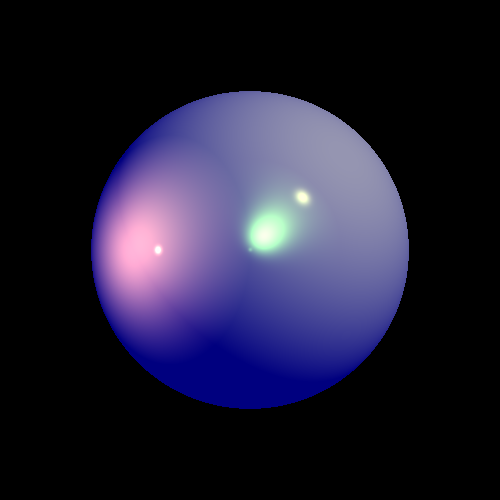
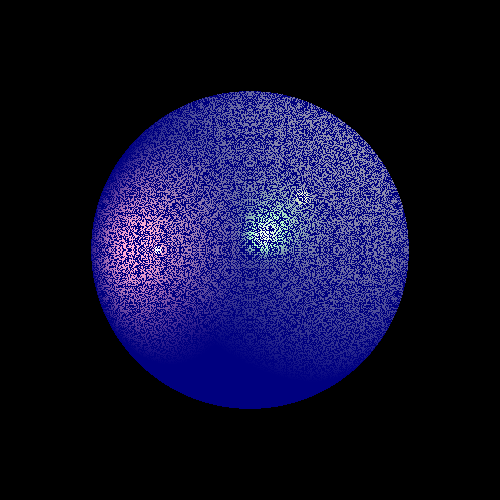
stage 7: Intersectable renewed

Changed region(s): [[0.18, 0.18, 0.84, 0.75]]

diff --git a/src/renderer/RayTracerBasic.java b/src/renderer/RayTracerBasic.java
@@ -19,8 +19,30 @@ import static primitives.Util.alignZero;
  */
 public class RayTracerBasic extends RayTracerBase {
 
-    /**
+    private static final double DELTA = 0.1;
 
+
+    private boolean unshaded(GeoPoint gp, Vector l) {
+        Vector lightDirection = l.scale(-1); // from point to light source
+        Ray lightRay = new Ray(gp.point, lightDirection);
+        List<GeoPoint> intersections = scene.getGeometries().findGeoIntersections(lightRay);
+        return intersections == null ? true : false;
+    }
+
+//    private boolean unshaded(GeoPoint gp, LightSource light, Vector l, Vector n, double nl)
+//    {
+//        Vector lightDirection = l.scale(-1); // from point to light source
+//        Vector epsVector = n.scale(nl < 0 ? DELTA : -DELTA);
+//        Point point = gp.point.add(epsVector);
+//        Ray lightRay = new Ray(point, lightDirection);
+//        List<GeoPoint> intersections = scene.getGeometries().findGeoIntersections(lightRay);
+//        if (intersections == null) return true;
+//
+//    }
+
+
+
+    /**
      Constructs a new instance of the RayTracerBasic class with the specified scene.
      @param scene The scene to be rendered.
      */
@@ -42,162 +64,6 @@ public class RayTracerBasic extends RayTracerBase {
         GeoPoint closestPoint = ray.findClosestGeoPoint(intersections);
         return calcColor(closestPoint,ray);
     }
-
-
-
-//    private Color calcColor(GeoPoint geoPoint){
-//        //
-//        return scene.ambientLight.getIntensity()
-//                .add(geoPoint.geometry.getEmission());
-//    }
-//    private Color calcColor(GeoPoint geoPoint) {
-//        Color ambientLightIntensity = scene.ambientLight.getIntensity();
-//        Color emissionColor = geoPoint.geometry.getEmission();
-//        Color lightIntensity = Color.BLACK; // Initialize with no light intensity
-//
-//        // Iterate over the light sources in the scene and calculate the total light intensity
-//        for (LightSource lightSource : scene.lights) {
-//            lightIntensity = lightIntensity.add(lightSource.getIntensity(geoPoint.point));
-//        }
-//
-//        // Combine the ambient light intensity, emission color, and total light intensity
-//        return ambientLightIntensity.add(emissionColor).add(lightIntensity);
-//    }
-
-//    private Color calcColor(GeoPoint geoPoint) {
-//        Color ambientLightIntensity = scene.ambientLight.getIntensity();
-//        Color emissionColor = geoPoint.geometry.getEmission();
-//        Color diffuseColor = Color.BLACK; // Initialize with no diffuse color
-//        Color specularColor = Color.BLACK; // Initialize with no specular color
-//
-//        // Iterate over the light sources in the scene and calculate the diffuse and specular components
-//        for (LightSource lightSource : scene.lights) {
-//            // Calculate the diffuse component
-//            Vector l = lightSource.getL(geoPoint.point).normalize(); // Light direction vector
-//            Vector n = geoPoint.geometry.getNormal(geoPoint.point).normalize(); // Surface normal vector
-//            double ln = Math.max(0, l.dotProduct(n)); // Dot product of light direction and surface normal
-//            Color lightDiffuseColor = lightSource.getIntensity(geoPoint.point).scale(ln);
-//            diffuseColor = diffuseColor.add(lightDiffuseColor);
-//
-//            // Calculate the specular component
-//            double shininess = geoPoint.geometry.getMaterial().nShininess; // Shininess factor
-//            Vector r = l.subtract(n.scale(2 * ln)).normalize(); // Reflection vector
-//            double specularFactor = Math.pow(Math.max(0, r.dotProduct(l)), shininess); // Specular factor
-//            Color lightSpecularColor = lightSource.getIntensity(geoPoint.point).scale(specularFactor).scale(geoPoint.geometry.getMaterial().Ks);
-//            specularColor = specularColor.add(lightSpecularColor);
-//        }
-//
-//        // Combine the ambient light intensity, emission color, diffuse color, and specular color
-//        return ambientLightIntensity.scale(geoPoint.geometry.getMaterial().kd)
-//                .add(emissionColor)
-//                .add(diffuseColor)
-//                .add(specularColor);
-//    }
-
-
-//    private Color calcColor(GeoPoint geoPoint) {
-//        Color ambientLightIntensity = scene.ambientLight.getIntensity();
-//        Color emissionColor = geoPoint.geometry.getEmission();
-//
-//        Color diffuseColor = calculateDiffuseColor(geoPoint);
-//        Color specularColor = calculateSpecularColor(geoPoint);
-//
-//        return ambientLightIntensity.scale(geoPoint.geometry.getMaterial().kd)
-//                .add(emissionColor)
-//                .add(diffuseColor)
-//                .add(specularColor);
-//    }
-//
-//    private Color calculateDiffuseColor(GeoPoint geoPoint) {
-//        Color diffuseColor = Color.BLACK;
-//
-//        for (LightSource lightSource : scene.lights) {
-//            Vector l = lightSource.getL(geoPoint.point).normalize();
-//            Vector n = geoPoint.geometry.getNormal(geoPoint.point).normalize();
-//            double ln = Math.max(0, l.dotProduct(n));
-//
-//            Color lightDiffuseColor = lightSource.getIntensity(geoPoint.point).scale(ln);
-//            diffuseColor = diffuseColor.add(lightDiffuseColor);
-//        }
-//
-//        return diffuseColor;
-//    }
-//
-//    private Color calculateSpecularColor(GeoPoint geoPoint) {
-//        Color specularColor = Color.BLACK;
-//
-//        for (LightSource lightSource : scene.lights) {
-//            Vector l = lightSource.getL(geoPoint.point).normalize();
-//            Vector n = geoPoint.geometry.getNormal(geoPoint.point).normalize();
-//            double ln = Math.max(0, l.dotProduct(n));
-//            double shininess = geoPoint.geometry.getMaterial().nShininess;
-//            Vector r = l.subtract(n.scale(2 * ln)).normalize();
-//            double specularFactor = Math.pow(Math.max(0, r.dotProduct(-geoPoint.point.getV())), shininess);
-//
-//            Color lightSpecularColor = lightSource.getIntensity(geoPoint.point)
-//                    .scale(specularFactor)
-//                    .scale(geoPoint.geometry.getMaterial().Ks);
-//
-//            specularColor = specularColor.add(lightSpecularColor);
-//        }
-//
-//        return specularColor;
-//    }
-
-
-
-//    private Color calcColor(GeoPoint geoPoint,Ray ray) {
-//        Color ambientLightIntensity = scene.ambientLight.getIntensity();
-//        Color emissionColor = geoPoint.geometry.getEmission();
-//
-//        Color diffuseColor = calculateDiffuseColor(geoPoint);
-//        Color specularColor = calculateSpecularColor(geoPoint,ray);
-//
-//        return ambientLightIntensity.scale(geoPoint.geometry.getMaterial().kd)
-//                .add(emissionColor)
-//                .add(diffuseColor)
-//                .add(specularColor);
-//    }
-//
-//    private Color calculateDiffuseColor(GeoPoint geoPoint) {
-//        Color diffuseColor = Color.BLACK;
-//        Material material = geoPoint.geometry.getMaterial();
-//
-//        for (LightSource lightSource : scene.lights) {
-//            Vector lightDirection = lightSource.getL(geoPoint.point).normalize();
-//            Vector surfaceNormal = geoPoint.geometry.getNormal(geoPoint.point).normalize();
-//            double ln = Math.max(0, lightDirection.dotProduct(surfaceNormal));
-//
-//            Color lightDiffuseColor = lightSource.getIntensity(geoPoint.point).scale(ln);
-//            diffuseColor = diffuseColor.add(lightDiffuseColor);
-//        }
-//
-//        diffuseColor = diffuseColor.scale(material.kd);
-//        return diffuseColor;
-//    }
-//
-//    private Color calculateSpecularColor(GeoPoint geoPoint, Ray ray) {
-//        Color specularColor = Color.BLACK;
-//        Material material = geoPoint.geometry.getMaterial();
-//        Vector viewDirection = geoPoint.point.subtract(ray.getDir()).normalize();
-//
-//        for (LightSource lightSource : scene.lights) {
-//            Vector lightDirection = lightSource.getL(geoPoint.point).normalize();
-//            Vector surfaceNormal = geoPoint.geometry.getNormal(geoPoint.point).normalize();
-//            double ln = Math.max(0, lightDirection.dotProduct(surfaceNormal));
-//            double shininess = material.nShininess;
-//
-//            Vector reflectionDirection = lightDirection.subtract(surfaceNormal.scale(2 * ln)).normalize();
-//
-//            double specularFactor = Math.pow(Math.max(0, reflectionDirection.dotProduct(viewDirection)), shininess);
-//
-//            Color lightSpecularColor = lightSource.getIntensity(geoPoint.point).scale(specularFactor).scale(material.Ks);
-//            specularColor = specularColor.add(lightSpecularColor);
-//        }
-//
-//        return specularColor;
-//    }
-
 
     private Color calcColor(GeoPoint intersection, Ray ray) {
         return scene.getAmbientLight().getIntensity()
@@ -238,7 +104,7 @@ public class RayTracerBasic extends RayTracerBase {
             double nl = alignZero(n.dotProduct(l));
 
             // If the signs of nl and nv are the same, calculate the diffuse and specular effects
-            if (nl * nv > 0) { // sign(nl) == sing(nv)
+            if (nl * nv > 0 && unshaded(gp, l)) { // sign(nl) == sing(nv)
 
                 // Get the intensity of the light source at the geometric point
                 Color iL = lightSource.getIntensity(gp.point);

diff --git a/src/geometries/Sphere.java b/src/geometries/Sphere.java
@@ -6,6 +6,8 @@ import primitives.Vector;
 
 import java.util.List;
 
+import static primitives.Util.alignZero;
+
 public class Sphere extends RadialGeometry {
     private Point center;
 
@@ -20,14 +22,18 @@ public class Sphere extends RadialGeometry {
     }
 
     @Override
-    protected List<GeoPoint> findGeoIntersectionsHelper(Ray ray) {
+    protected List<GeoPoint> findGeoIntersectionsHelper(Ray ray, double maxDistance) {
         List<GeoPoint> result;
         //A special case that Ray starts in the center
         if(ray.getP0().equals(center)) {
-            result = List.of(new GeoPoint(this,
-                    ray.getPoint(radius))
-            );
-            return result;
+            Point point = ray.getPoint(radius);
+            double distance = ray.getP0().distance(point);
+
+            if(alignZero(maxDistance - distance) >= 0){
+                result = List.of(new GeoPoint(this, point));
+                return result;
+            }
+            return null;
         }
 
         Vector u = center.subtract(ray.getP0());
@@ -50,8 +56,15 @@ public class Sphere extends RadialGeometry {
 
 
         if (t1 <= 0) {
-            // One intersection point is behind the ray, the other is in front
-            result = List.of(new GeoPoint(this,ray.getPoint(t2)));
+            Point point = ray.getPoint(t2);
+            double distance = ray.getP0().distance(point);
+
+            if (alignZero(maxDistance - distance) >= 0){
+                // One intersection point is behind the ray, the other is in front
+                result = List.of(new GeoPoint(this,point));
+            }
+
+            result = null;
         } else {
             // Both intersection points are in front of the ray
             result = List.of(new GeoPoint(this ,ray.getPoint(t1)),new GeoPoint(this ,ray.getPoint(t2)));
@@ -59,17 +72,4 @@ public class Sphere extends RadialGeometry {
 
         return result;
     }
-
-    /**
-     * @param ray
-     * @return
-     */
-    @Override
-    public List<GeoPoint> findGeoIntersections(Ray ray) {
-        return findGeoIntersectionsHelper(ray);
-    }
-
-
-
-
 }

diff --git a/src/geometries/Intersectable.java b/src/geometries/Intersectable.java
@@ -42,7 +42,19 @@ public abstract class Intersectable {
       return geoList == null ? null : geoList.stream().map(gp -> gp.point).toList();
    }
 
-   public abstract List<GeoPoint> findGeoIntersections(Ray ray);
-   protected abstract List<GeoPoint> findGeoIntersectionsHelper(Ray ray);
+   //public abstract List<GeoPoint> findGeoIntersections(Ray ray);
+   //protected abstract List<GeoPoint> findGeoIntersectionsHelper(Ray ray);
+
+
+   public final List<GeoPoint> findGeoIntersections(Ray ray) {
+      return findGeoIntersections(ray, Double.POSITIVE_INFINITY);
+   }
+
+   public final List<GeoPoint> findGeoIntersections(Ray ray, double maxDistance) {
+      return findGeoIntersectionsHelper(ray, maxDistance);
+   }
+
+   protected abstract List<GeoPoint> findGeoIntersectionsHelper(Ray ray, double maxDistance);
+
 
 }

diff --git a/src/lighting/PointLight.java b/src/lighting/PointLight.java
@@ -57,8 +57,7 @@ public class PointLight extends Light implements LightSource{
     @Override
     public Vector getL(Point p) {
         return p.subtract(position).normalize(); // Calculate the direction vector from the point to the light source
-    }//
-
+    }
 
     /**
      * Sets the constant attenuation factor for the point light.
@@ -91,5 +90,10 @@ public class PointLight extends Light implements LightSource{
     public PointLight setKq(double kq) {
         this.Kq = kq;
         return this;
+    }
+
+    @Override
+    public double getDistance(Point point) {
+        return point.distance(position);
     }
 }

diff --git a/src/geometries/Tube.java b/src/geometries/Tube.java
@@ -42,7 +42,7 @@ public class Tube extends RadialGeometry {
      * @return
      */
     @Override
-    public List<GeoPoint> findGeoIntersections(Ray ray) {
+    public List<GeoPoint> findGeoIntersections(Ray ray,) {
         return null;
     }
 

diff --git a/src/lighting/DirectionalLight.java b/src/lighting/DirectionalLight.java
@@ -47,4 +47,8 @@ public class DirectionalLight extends Light implements LightSource {
         return direction.normalize();
     }
 
+    @Override
+    public double getDistance(Point point) {
+        return Double.POSITIVE_INFINITY;
+    }
 }

diff --git a/src/lighting/LightSource.java b/src/lighting/LightSource.java
@@ -25,4 +25,7 @@ public interface LightSource {
      * @return The direction of the light at the specified point.
      */
     public Vector getL(Point p);
+
+
+    double getDistance(Point point);
 }
